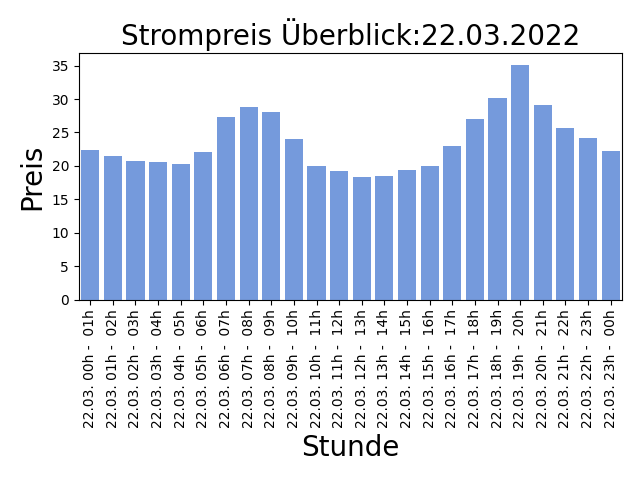
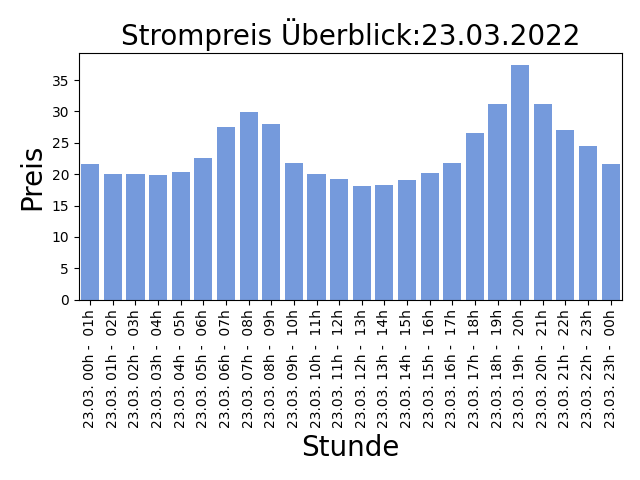
AUTOMATIC UPDATE PRICE LIST: 2022-03-22-14:30:06

diff --git a/README.md b/README.md
@@ -1,5 +1,5 @@
 
-## Strompreise für den 22.03.2022
+## Strompreise für den 23.03.2022
 
 Niedrige Preise deuten auf viel Sonnen und Windenergieerzeugung hin, ein hoher Anteil an erneuerbaren Energien bedeuted weniger CO2 Verbrauch!
 
@@ -7,31 +7,31 @@ Niedrige Preise deuten auf viel Sonnen und Windenergieerzeugung hin, ein hoher A
 
 | Stunde | Preis in Cent/kWh |
 |---|---|
-| 22.03. 00h -  01h | 22.3 | 
-| 22.03. 01h -  02h | 21.5 | 
-| 22.03. 02h -  03h | 20.7 | 
-| 22.03. 03h -  04h | 20.636000000000003 | 
-| 22.03. 04h -  05h | 20.3 | 
-| 22.03. 05h -  06h | 22.092 | 
-| 22.03. 06h -  07h | 27.369999999999997 | 
-| 22.03. 07h -  08h | 28.733999999999998 | 
-| 22.03. 08h -  09h | 28.110000000000003 | 
-| 22.03. 09h -  10h | 24.015 | 
-| 22.03. 10h -  11h | 19.990000000000002 | 
-| 22.03. 11h -  12h | 19.22 | 
-| **22.03. 12h -  13h** | **18.366** | 
-| 22.03. 13h -  14h | 18.521 | 
-| 22.03. 14h -  15h | 19.392 | 
-| 22.03. 15h -  16h | 19.986 | 
-| 22.03. 16h -  17h | 23.000999999999998 | 
-| 22.03. 17h -  18h | 26.997000000000003 | 
-| 22.03. 18h -  19h | 30.102999999999998 | 
-| 22.03. 19h -  20h | 35.1 | 
-| 22.03. 20h -  21h | 29.083999999999996 | 
-| 22.03. 21h -  22h | 25.59 | 
-| 22.03. 22h -  23h | 24.227 | 
-| 22.03. 23h -  00h | 22.238 | 
+| 23.03. 00h -  01h | 21.538999999999998 | 
+| 23.03. 01h -  02h | 20.005000000000003 | 
+| 23.03. 02h -  03h | 20.062 | 
+| 23.03. 03h -  04h | 19.808 | 
+| 23.03. 04h -  05h | 20.409 | 
+| 23.03. 05h -  06h | 22.615000000000002 | 
+| 23.03. 06h -  07h | 27.544999999999998 | 
+| 23.03. 07h -  08h | 29.925 | 
+| 23.03. 08h -  09h | 28.072000000000003 | 
+| 23.03. 09h -  10h | 21.711000000000002 | 
+| 23.03. 10h -  11h | 19.97 | 
+| 23.03. 11h -  12h | 19.154 | 
+| **23.03. 12h -  13h** | **18.107** | 
+| 23.03. 13h -  14h | 18.193 | 
+| 23.03. 14h -  15h | 19.031 | 
+| 23.03. 15h -  16h | 20.234 | 
+| 23.03. 16h -  17h | 21.799 | 
+| 23.03. 17h -  18h | 26.605 | 
+| 23.03. 18h -  19h | 31.227999999999998 | 
+| 23.03. 19h -  20h | 37.414 | 
+| 23.03. 20h -  21h | 31.102999999999998 | 
+| 23.03. 21h -  22h | 27.0 | 
+| 23.03. 22h -  23h | 24.512 | 
+| 23.03. 23h -  00h | 21.64 | 
 
 Preise der EPEX Spot ® Strombörse (neue Preise werden täglich um 14:00 veröffentlicht für den kompletten nächsten Tag).
 
-letzte Aktualisierung:21.03.2022 14:30
+letzte Aktualisierung:22.03.2022 14:30
